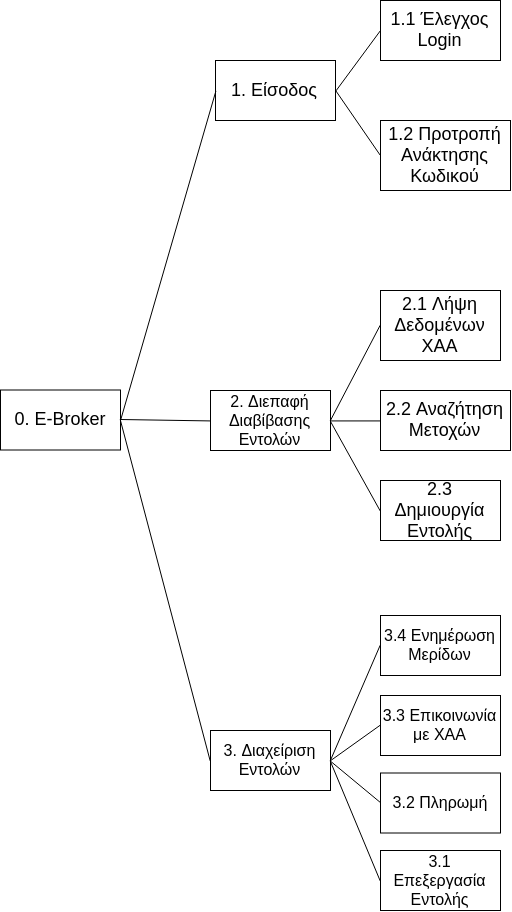
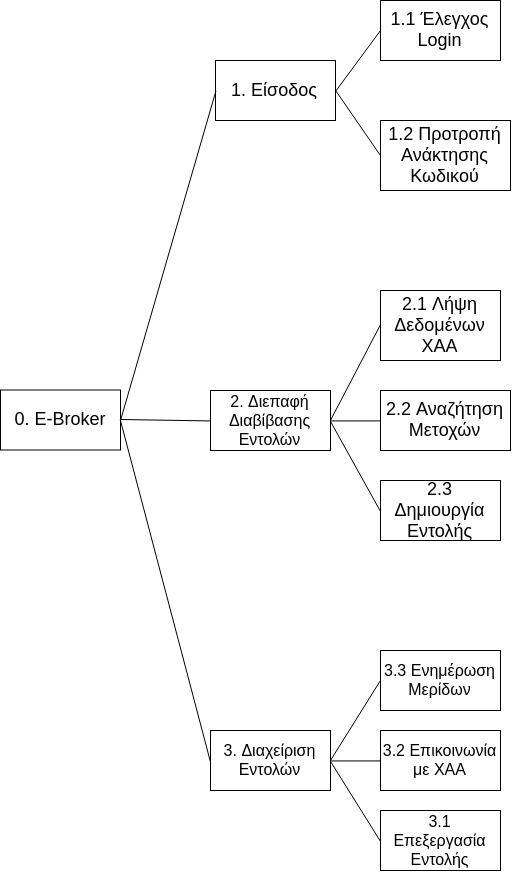
Updated diagrams to not show bank payment. KSE

diff --git a/LaTex/project.tex b/LaTex/project.tex
@@ -77,12 +77,8 @@
 				\item Πιστοποίηση πληρότητας στοιχείων χρήστη.
 			\end{itemize}
 		
-		\item 3.2 Πληρωμή
-			\begin{itemize}
-				\item Διεκπεραίωση συναλλαγής με την τράπεζα.
-			\end{itemize}
 
-		\item 3.3 Επικοινωνία ΧΑΑ:
+		\item 3.2 Επικοινωνία ΧΑΑ:
 			\begin{itemize}
 				\item Αποστολή εντολής στο ΧΑΑ.
 				\item Συλλογή απόκρισης (Αποδοχή / Απόρριψη) από ΧΑΑ.
@@ -90,7 +86,7 @@
 				\item Διαβίβαση πληροφορίας σε άλλες διεργασίες και σε πελάτη.
 			\end{itemize}
 
-		\item 3.4 Ενημέρωση Μερίδων:
+		\item 3.3 Ενημέρωση Μερίδων:
 		\begin{itemize}
 			\item Υπολογισμός προμήθειας και λοιπών οικονομικών στοιχείων.
 			\item Ενημέρωση μερίδας τίτλων πελάτη.
@@ -111,30 +107,25 @@ IF user_authorized = true
   parse_command
 
   IF command_is_valid = true
-    authorize_payment_with_bank
 
-    IF payment_is_valid = true
-      send_command_data_to_xaa
+	send_command_data_to_xaa
 
-	  IF command_is_accepted = true
+	IF command_is_accepted = true
 
-	  // Asynchronous behaviour
+	// Asynchronous behaviour
 
-	  await_for_xaa_execution_response
-	  .then({
-		IF response_is_error = true
-		  send_xaa_execution_error_to_client
-		ELSE
-		  send_client_xaa_report
-		  calculate_commission
-		  update_client_portfolio
+	await_for_xaa_execution_response
+	.then({
+	  IF response_is_error = true
+	  	send_xaa_execution_error_to_client
+	  ELSE
+	  	send_client_xaa_report
+	  	calculate_commission
+	  	update_client_portfolio
 	  })
 
-	  ELSE
-	    send_xaa_error_to_client
-
-    ELSE
-      send_payment_error_to_client
+	ELSE
+	  send_xaa_error_to_client
 
   ELSE
     send_parse_error_to_client
@@ -205,6 +196,45 @@ redirect_to_ui
 \begin{figure}[!h]
 	\includegraphics[width=\linewidth]{../UML/state_diagram.png}
 \end{figure}
+
+\subsection{Κύριο Σενάριο Επιτυχίας (ΚΣΕ) και Εναλλακτικά Σενάρια}
+
+\subsubsection{{ΚΣΕ}}
+\begin{enumerate}
+	\item Ο χρήστης επιλέγει αγορά ή πώληση από το radio button. 
+	\item Το σύστημα ανάλογα με την επιλογή του χρήστη, εμφανίζει όλες τις διαθέσιμες μετοχές.
+	\item Ο χρήστης επιλέγει την επιθυμητή μετοχή.
+	\item Ο χρήστης πληκτρολογεί τα στοιχεία της συναλλαγής (τιμή, χρόνος-στόχος, πλήθος, κλπ).
+	\item Ο χρήστης επιβεβαιώνει την εντολή.
+	\item Το σύστημα παρουσιάζει πληροφορίες τιμολόγησης.
+	\item Ο χρήστης επιβεβαιώνει τη συναλλαγή.
+	\item Το σύστημα στέλνει την εντολή στο ΧΑΑ.
+	\item Το ΧΑΑ αποδέχεται την εντολή.
+	\item Το σύστημα εγκρίνει την αγορά και ενημερώνει τον χρήστη.
+	\item Επιστροφή στο βήμα 1.
+	\item Κάποια στιγμή στο μέλλον, το ΧΑΑ ολοκληρώνει τη συναλλαγή και στέλνει την αναφορά εκκαθάρισης.
+	\item Το σύστημα ανακτά την αναφορά.
+	\item Το σύστημα ενημερώνει τη μερίδα του πελάτη.
+	\item Το σύστημα ενημερώνει τον πελάτη για την ολοκλήρωση της συναλλαγής.
+\end{enumerate}
+
+\subsubsection{{Εναλλακτικά Σενάρια}}
+
+4α. Ο πελάτης πληκτρολόγησε λανθασμένα/αδύνατα στοιχεία συναλλαγής
+\begin{enumerate}
+	\item Το σύστημα τυπώνει κάποιου είδους error message.
+	\item Επιστροφή στο βήμα 4.
+\end{enumerate}
+7α. Ο πελάτης δεν έχει αρκετά χρήματα στο υπόλοιπό του (αν πρόκειται για αγορά)
+\begin{enumerate}
+	\item Το σύστημα τυπώνει κάποιου είδους error message.
+	\item Επιστροφή στο βήμα 4.
+\end{enumerate}
+9α. Το ΧΑΑ απορρίπτει την εντολή.
+\begin{enumerate}
+	\item Το σύστημα τυπώνει κάποιου είδους error message.
+	\item Επιστροφή στο βήμα 1.
+\end{enumerate}
 
 \newpage
 \section{Δομημένος Σχεδιασμός}

diff --git a/ToDo.md b/ToDo.md
@@ -1,1 +1,4 @@
-* Play with margins and make first page centered.
+# TODO List
+
+- [ ] Play with margins and make first page centered.
+- [ ] Update UML class diagram to not use bank payments.
